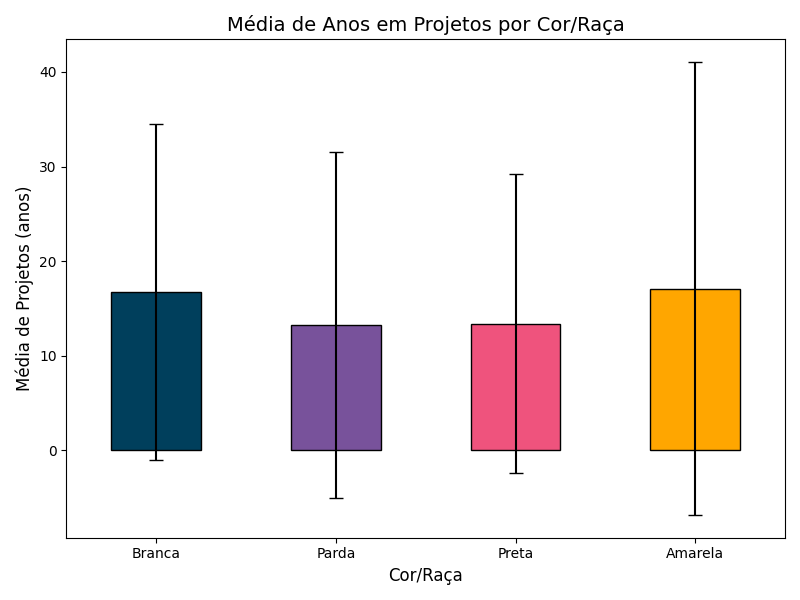
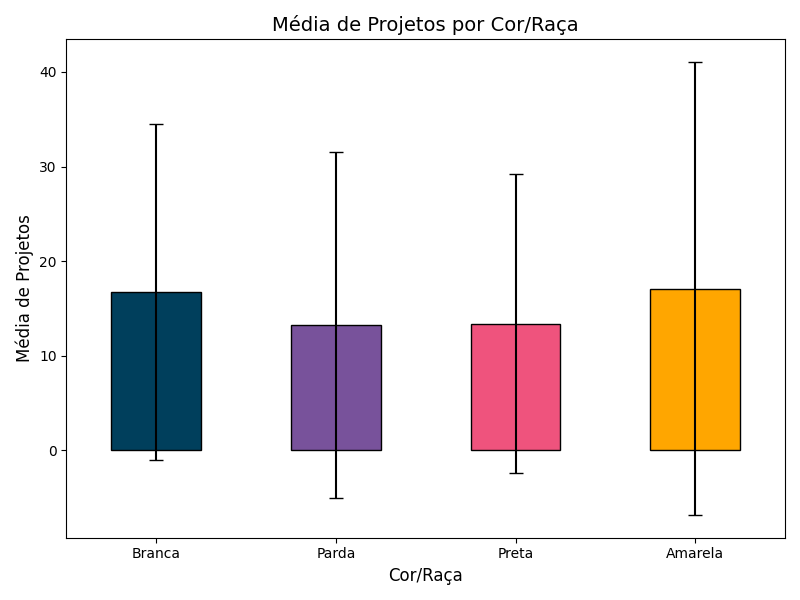
Programa completo

Changed region(s): [[0.0, 0.33, 0.0625, 0.66], [0.2812, 0.03, 0.7812, 0.06]]

diff --git a/analise_dados.py b/analise_dados.py
@@ -154,8 +154,19 @@ class AnaliseDadosTCC:
         print(f"Média total de projetos por docente na carreira: {media_projetos:.2f}")
         print(f"Desvio Padrão: {std_projetos:.2f} (Variação normal esperada entre pesquisadores)")
         
-        tab_proj_raca = self.df.groupby('raca')['total_projetos'].agg(['mean', 'std']).round(2)
-        self.exibir_e_salvar_tabela(tab_proj_raca, "tabela_projetos_raca", "MÉDIA DE PROJETOS POR COR/RAÇA")
+        # Adicionando 'count' para capturar o N de cada grupo
+        tab_proj_raca = self.df.groupby('raca')['total_projetos'].agg(['count', 'mean', 'std']).round(2)
+        
+        # Renomeando as colunas para a tabela exportada ficar clara
+        tab_proj_raca.rename(columns={
+            'count': 'Total de Docentes', 
+            'mean': 'Média de Projetos', 
+            'std': 'Desvio Padrão'
+        }, inplace=True)
+        
+        tab_proj_raca['Total de Docentes'] = tab_proj_raca['Total de Docentes'].astype(int)
+
+        self.exibir_e_salvar_tabela(tab_proj_raca, "tabela_projetos_raca", "MÉDIA DE PROJETOS E NÚMERO DE DOCENTES POR COR/RAÇA")
 
         # 5. Gestão
         self.df['gestao_str'] = self.df['gestao'].map({1: 'Com experiência', 0: 'Sem experiência'})
@@ -190,7 +201,7 @@ class AnaliseDadosTCC:
         self.carregar_dados()
         if self.df.empty: return
         self.analises_gerais_com_numeros()
-        self.arvore_decisao_demografica()
+        #self.arvore_decisao_demografica()
         print("\nAnálise Concluída.")
 
     def gerar_graficos_analises(self):
@@ -245,9 +256,9 @@ class AnaliseDadosTCC:
         
         fig, ax = plt.subplots(figsize=(8, 6))
         tab_proj_mean.plot(kind='bar', yerr=tab_proj_std, capsize=5, ax=ax, color=cores_raca, edgecolor='black')
-        plt.title('Média de Anos em Projetos por Cor/Raça', fontsize=14)
+        plt.title('Média de Projetos por Cor/Raça', fontsize=14)
         plt.xlabel('Cor/Raça', fontsize=12)
-        plt.ylabel('Média de Projetos (anos)', fontsize=12)
+        plt.ylabel('Média de Projetos', fontsize=12)
         plt.xticks(rotation=0)
         plt.tight_layout()
         plt.savefig(os.path.join(self.pasta_resultados, 'grafico_projetos_raca.png'))
@@ -667,7 +678,114 @@ class AnaliseDadosTCC:
             plt.close(fig2)
             
             print(f" -> Gráfico de evolução absoluta salvo em: {caminho_grafico_abs}")
-    
+
+    def comparar_curriculos_todas_racas(self):
+        """
+        Isola a amostra de todas as raças e compara o 
+        'peso' dos currículos (projetos, formação e chefia) em proporção.
+        """
+        if self.df.empty: 
+            self.carregar_dados()
+            
+        # Garante que usaremos apenas as categorias válidas
+        df_racas = self.df[self.df['raca'].isin(self.CATEGORIAS_RACA)].copy()
+        
+        if df_racas.empty:
+            print("Dados insuficientes para essa comparação.")
+            return
+
+        print(f"\n{'='*70}\nCOMPARAÇÃO GERAL DE CURRÍCULOS POR COR/RAÇA\n{'='*70}")
+        
+        # 1. Tamanho da Amostra (N)
+        contagem = df_racas['raca'].value_counts().reindex(self.CATEGORIAS_RACA, fill_value=0)
+        print("\n1. TAMANHO DA AMOSTRA (N):")
+        print(contagem.to_string())
+
+        # 2. Nível de Formação (em Porcentagem da própria raça)
+        print("\n2. FORMAÇÃO ACADÊMICA (% dentro do grupo):")
+        tab_form = pd.crosstab(df_racas['raca'], df_racas['formacao'], normalize='index') * 100
+        tab_form = tab_form.reindex(index=self.CATEGORIAS_RACA, columns=self.CATEGORIAS_FORMACAO, fill_value=0)
+        print(tab_form.round(1))
+
+        # 3. Histórico de Gestão/Chefia (em Porcentagem)
+        print("\n3. EXPERIÊNCIA EM GESTÃO E CHEFIA (%):")
+        df_racas['gestao_str'] = df_racas['gestao'].map({1: 'Já foi Chefe/Gestor', 0: 'Nunca foi Chefe'})
+        tab_gestao = pd.crosstab(df_racas['raca'], df_racas['gestao_str'], normalize='index') * 100
+        tab_gestao = tab_gestao.reindex(index=self.CATEGORIAS_RACA, fill_value=0)
+        print(tab_gestao.round(1))
+
+        # 4. Produção de Projetos (Média e Desvio)
+        print("\n4. VOLUME DE PROJETOS POR DOCENTE:")
+        tab_proj = df_racas.groupby('raca')['total_projetos'].agg(['mean', 'std']).round(2)
+        tab_proj = tab_proj.reindex(self.CATEGORIAS_RACA, fill_value=0)
+        tab_proj.rename(columns={'mean': 'Média', 'std': 'Desvio Padrão'}, inplace=True)
+        print(tab_proj)
+
+        # Salvar em CSV consolidado
+        caminho_csv = os.path.join(self.pasta_resultados, "comparacao_curriculos_todas_racas.csv")
+        
+        # Concatenando tudo para um único DataFrame e exportando
+        relatorio = pd.concat([
+            pd.DataFrame({'Total_Amostra': contagem}),
+            tab_form.round(1).add_suffix('_(%)'),
+            tab_gestao.round(1).add_suffix('_(%)'),
+            tab_proj
+        ], axis=1)
+        
+        relatorio.to_csv(caminho_csv, encoding='utf-8-sig')
+        print(f"\n -> Relatório consolidado salvo em: {caminho_csv}")
+
+    def listar_campi_coletados(self):
+
+        #Dicionário para armazenar os campi de forma única (sem repetição)
+        campi_por_if = {instituto: set() for instituto in self.INSTITUTOS.keys()}
+        
+        arquivos = [a for a in os.listdir(self.pasta_perfis) if a.lower().endswith(".json")]
+        
+        for arquivo in arquivos:
+            caminho = os.path.join(self.pasta_perfis, arquivo)
+            try:
+                with open(caminho, "r", encoding="utf-8") as f:
+                    dados = json.load(f)
+                
+                instituto, _, _ = self.obter_instituto_estado_regiao(dados)
+                
+                # Tenta localizar a chave 'campus' na raiz do JSON ou dentro de 'dados_gerais'
+                campus = dados.get("campus")
+                if not campus:
+                    campus = dados.get("dados_gerais", {}).get("campus", "")
+                
+                campus = str(campus).strip()
+                
+                if instituto in campi_por_if and campus and campus.lower() not in ["none", "null", "-", "não informado", ""]:
+                    # Formata capitalizando corretamente o nome do campus
+                    campus_formatado = campus.title().replace(" Da ", " da ").replace(" De ", " de ").replace(" Do ", " do ")
+                    campi_por_if[instituto].add(campus_formatado)
+            except Exception:
+                pass
+        
+        # Geração da lista em texto puro
+        linhas_resultado = []
+        for instituto in sorted(campi_por_if.keys()):
+            campi = sorted(list(campi_por_if[instituto]))
+            if campi:
+                nomes_campi = ", ".join(campi)
+                linhas_resultado.append(f"{instituto}: {nomes_campi}")
+            else:
+                linhas_resultado.append(f"{instituto}: Campus não identificado nos dados coletados")
+        
+        texto_final = "\n".join(linhas_resultado)
+        print(texto_final)
+        
+        # Salvando o resultado em um arquivo .txt
+        caminho_txt = os.path.join(self.pasta_resultados, "lista_campi_coletados.txt")
+        try:
+            with open(caminho_txt, "w", encoding="utf-8") as arquivo_txt:
+                arquivo_txt.write(texto_final + "\n")
+            print(f"\n -> Lista de campi salva com sucesso em: {caminho_txt}\n")
+        except Exception as e:
+            print(f"\n -> Erro ao salvar o arquivo txt: {e}\n")
+            
 if __name__ == "__main__":
     analise = AnaliseDadosTCC()
     #analise.executar_todas()
@@ -676,4 +794,6 @@ if __name__ == "__main__":
     #analise.analises_gerais_com_porcentagem()
     #analise.gerar_graficos_porcentagem()
     #analise.gerar_mapa_composicao_regioes()
-    analise.analisar_evolucao_historica_raca()
+    #analise.analisar_evolucao_historica_raca()
+    #analise.comparar_curriculos_todas_racas()
+    analise.listar_campi_coletados()

diff --git a/main.py b/main.py
@@ -18,13 +18,7 @@ def main():
         with open(caminho_arquivo, "r", encoding="utf-8") as file:
             urls_institutos = [linha.strip() for linha in file if linha.strip()]
 
-        # ============================================================
-        # 1. ETAPA DE SCRAPING (COLETA DOS DADOS E FOTOS)
-        # ============================================================
         for url_site in urls_institutos:
-            print(f"\n{'='*50}")
-            print(f"INICIANDO COLETA NO SITE: {url_site}")
-            print(f"{'='*50}")
 
             try:
                 scrapper.acessar_site(url_site)
@@ -48,24 +42,12 @@ def main():
         scrapper.fechar()
         scrapper = None 
 
-        # ============================================================
-        # 2. ETAPA DE RECONHECIMENTO (INSERÇÃO DA RAÇA NOS JSONS)
-        # ============================================================
-        print("\n" + "="*50)
-        print("INICIANDO RECONHECIMENTO FACIAL/RACIAL")
-        print("="*50)
         try:
             recognition.executar_reconhecimento(pasta="fotos", pasta_json="perfis")
         except Exception as e_rec:
             print(f"Erro crítico durante o reconhecimento: {e_rec}")
             return # Se falhar aqui, não adianta analisar, então interrompe
 
-        # ============================================================
-        # 3. ETAPA DE REESTRUTURAÇÃO (LIMPEZA MATEMÁTICA E CATEGORIZAÇÃO)
-        # ============================================================
-        print("\n" + "="*50)
-        print("REESTRUTURANDO JSONS PARA ANÁLISE")
-        print("="*50)
         try:
             restruturador = RestruturadorJSON(pasta_origem="perfis", pasta_destino="perfis_estruturados")
             restruturador.executar()
@@ -73,12 +55,6 @@ def main():
             print(f"Erro na reestruturação dos dados: {e_res}")
             return
 
-        # ============================================================
-        # 4. ETAPA DE ANÁLISE DE DADOS (GRÁFICOS E CSVs)
-        # ============================================================
-        print("\n" + "="*50)
-        print("INICIANDO ANÁLISE DE DADOS")
-        print("="*50)
         try:
             analise = AnaliseDadosTCC(
                 pasta_perfis="perfis_estruturados",
